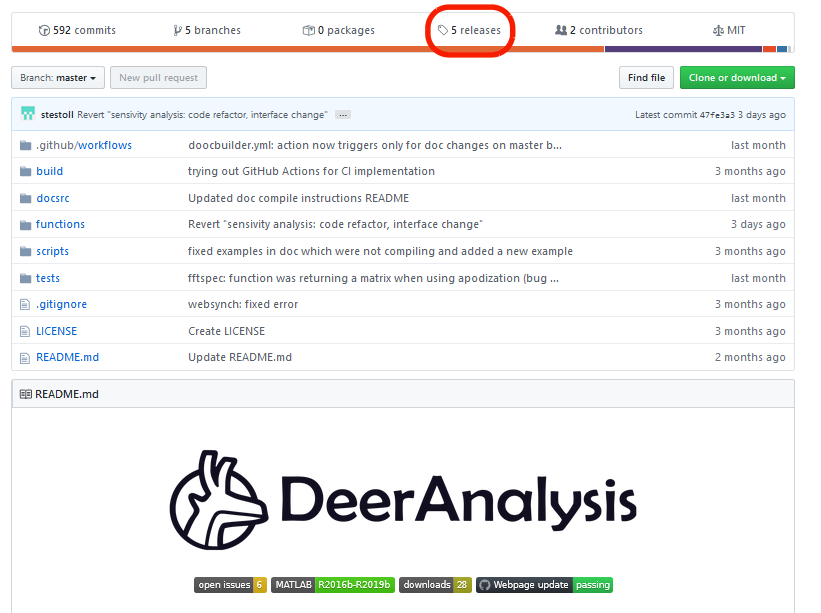
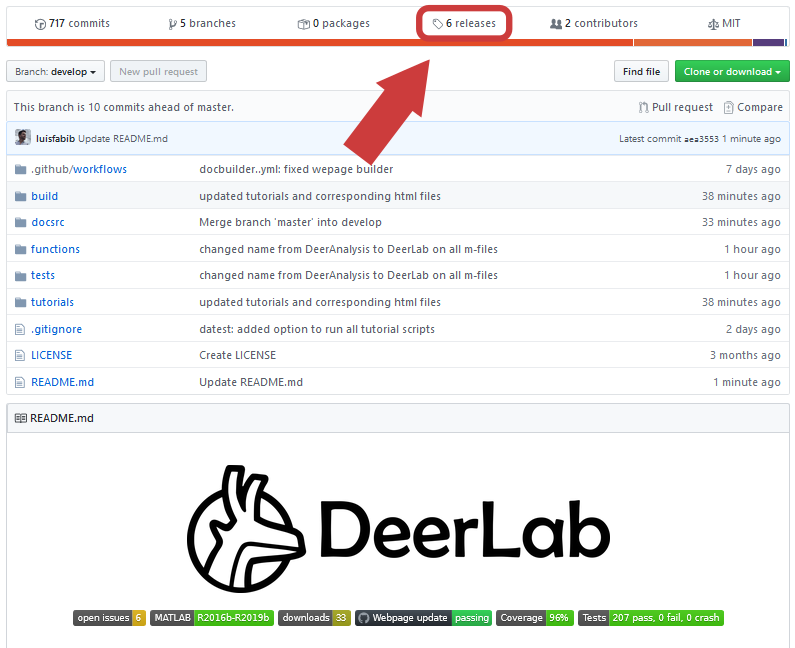
DeerAnaysis -> DeerLab update in the documentation/webpage

Changed region(s): [[0.0, 0.0, 0.9962, 0.6819], [0.0906, 0.7129, 0.9358, 0.9918]]

diff --git a/docsrc/source/_static/downloadbutton.html b/docsrc/source/_static/downloadbutton.html
@@ -33,6 +33,6 @@
 </style>
 
 <p align="center">
-<a align="center", href="https://github.com/luisfabib/DeerAnalysis2/releases/download/0.8.beta/DeerAnalysis_0.8.beta.zip" class="myButton">Download latest release (0.8.beta)</a>
+<a align="center", href="https://github.com/luisfabib/deerlab/releases/download/0.8.beta/DeerAnalysis_0.8.beta.zip" class="myButton">Download latest release (0.8.beta)</a>
 </p>
 </div>

diff --git a/docsrc/source/_static/theme_override.css b/docsrc/source/_static/theme_override.css
@@ -2825,7 +2825,7 @@ html {
     height: auto;
     width: auto;
     border-radius: 0;
-    max-width: 100%;
+    max-width: 80%;
     background: transparent}
 .wy-side-nav-search>a.icon img.logo,.wy-side-nav-search .wy-dropdown>a.icon img.logo {
     margin-top: .85em}

diff --git a/docsrc/source/conf.py b/docsrc/source/conf.py
@@ -12,7 +12,7 @@ from sphinx.locale import _
 from sphinx_rtd_theme import __version__
 
 # Project details
-project = 'DeerAnalysis'
+project = 'DeerLab'
 copyright = '2019, Luis Fabregas Ibanez'
 author = 'Fabregas Ibanez'
 language = 'en'
@@ -50,7 +50,7 @@ html_theme = 'sphinx_rtd_theme'
 html_context = {
     "display_github": False, # Integrate GitHub
     "github_user": "luisfabib", # Username
-    "github_repo": "DeerAnalysis2", # Repo name
+    "github_repo": "deerlab", # Repo name
     "github_version": "master", # Version
     "conf_py_path": "/source/", # Path in the checkout to the docs root
 }

diff --git a/docsrc/source/index.rst b/docsrc/source/index.rst
@@ -1,17 +1,18 @@
 Welcome to...
 =========================================
 
+
 .. image:: logo_dark.png
-    :width: 800px
+    :width: 650px
     :align: center
 
 .. raw:: html
 
-	<p align="center">
-	 <img src="https://img.shields.io/github/issues-raw/luisfabib/DeerAnalysis2?style=flat"></img>
+	<p align="center" style="top-padding: 100px">
+	 <img src="https://img.shields.io/github/issues-raw/luisfabib/deerlab?style=flat"></img>
 	 <img src="https://img.shields.io/badge/MATLAB-R2016b--R2019b-brightgreen?style=flat"></img>
-	 <img src="https://img.shields.io/github/downloads/luisfabib/DeerAnalysis2/total?style=flat"></img>
-	 <img src="https://github.com/luisfabib/DeerAnalysis2/workflows/Webpage%20update/badge.svg?style=flat-square"></img>
+	 <img src="https://img.shields.io/github/downloads/luisfabib/deerlab/total?style=flat"></img>
+	 <img src="https://github.com/luisfabib/deerlab/workflows/Webpage%20update/badge.svg?style=flat-square"></img>
 	 <img src="https://img.shields.io/endpoint?url=https%3A%2F%2Fdeershields.s3.eu-central-1.amazonaws.com%2Fcoverage_badge.json"></img>
 	 <img src="https://img.shields.io/endpoint?url=https%3A%2F%2Fdeershields.s3.eu-central-1.amazonaws.com%2Ftestsuite_badge.json"></img>
 	</p>
@@ -25,7 +26,7 @@
        
 -------
 
-.. important:: DeerAnalysis is currently on its pre-release phase. Minor changes and some major changes can be expected in the short-term future until the first stable version is released. 
+.. important:: DeerLab is currently on its pre-release phase. Minor changes and some major changes can be expected in the short-term future until the first stable version is released. 
 
 This software package is a MATLAB toolbox for the analysis of data from DEER (double electron-electron resonance) spectroscopy and similar dipolar spectroscopy techniques (DQC, RIDME, SIFTER).
 
@@ -34,7 +35,7 @@ This software package is a MATLAB toolbox for the analysis of data from DEER (do
 
 It consists of a collection of functions (the API) that provides a series of functions that perform single processing or fitting tasks. They can be combined in scripts to generate custom analysis workflows.
 
-To model distance distributions, DeerAnalysis2 supports two types of model classes and associated workflows: parameter-free models (as used in Tikhonov regularization) as well as a series of parameterized models (mutli-Gaussians etc). It also provides a selection of background models. There are API functions for generating synthetic datasets as well as for fitting and analyzing experimental data sets.
+To model distance distributions, DeerLab supports two types of model classes and associated workflows: parameter-free models (as used in Tikhonov regularization) as well as a series of parameterized models (mutli-Gaussians etc). It also provides a selection of background models. There are API functions for generating synthetic datasets as well as for fitting and analyzing experimental data sets.
 
 
 .. toctree::

diff --git a/docsrc/source/download.rst b/docsrc/source/download.rst
@@ -2,17 +2,17 @@ Downloads
 ======================
 
 
-DeerAnalysis is distributed in two different formats:
+DeerLab is distributed in two different formats:
 
 	- Releases
-		Releases are the official packages of DeerAnalysis containing the essentials for the full-functionality of the program. They contain:
+		Releases are the official packages of DeerLab containing the essentials for the full-functionality of the program. They contain:
 
 			- All DeerAnaysis functions
 			- A compiled offline version of this webpage and documentation
 			- All tutorial scripts
 
 	- Source code
-		The source code contains all code used in the development of DeerAnalysis, including: 
+		The source code contains all code used in the development of DeerLab, including: 
 
 			- All DeerAnaysis functions
 			- All source files for compiling the webpage and documentation
@@ -28,7 +28,7 @@ DeerAnalysis is distributed in two different formats:
 Downloading Releases
 -----------------------
 
-All releases (incuding previous versions) are available in the official DeerAnalysis `GitHub repository <https://github.com/luisfabib/DeerAnalysis2>`_. 
+All releases (incuding previous versions) are available in the official DeerLab `GitHub repository <https://github.com/luisfabib/deerlab>`_. 
 
 1) From the main page, select the ``releases`` tab
 
@@ -46,7 +46,7 @@ All releases (incuding previous versions) are available in the official DeerAnal
 Downloading the source code
 -----------------------------
 
-The source code is easily available in the official DeerAnalysis `GitHub repository <https://github.com/luisfabib/DeerAnalysis2>`_ either by downloading or cloning the repo. 
+The source code is easily available in the official DeerLab `GitHub repository <https://github.com/luisfabib/deerlab>`_ either by downloading or cloning the repo. 
 
 1) From the main page, select the ``Clone or download`` tab
 

diff --git a/docsrc/source/installation.rst b/docsrc/source/installation.rst
@@ -4,7 +4,7 @@ Installation
 
 Requirements
 ---------------
-The application programming interface (API) of DeerAnalysis requires the following products:
+The application programming interface (API) of DeerLab requires the following products:
 
     *  `MATLAB <https://ch.mathworks.com/products/matlab.html>`_
 
@@ -19,16 +19,16 @@ To access additional optional functionality, the following products may be requi
 
 Setup
 ---------------
-In order for MATLAB to access the DeerAnalysis API functions, the path to DeerAnalysis installation folder must be set.
+In order for MATLAB to access the DeerLab API functions, the path to DeerLab installation folder must be set.
 
 
 
-Method A) Add DeerAnalysis path via MATLAB's IDE
+Method A) Add DeerLab path via MATLAB's IDE
 	1) On the ``Home`` tab, in the ``Environment`` section, click ``Set Path``. 
 	
 		.. image:: ./images/installation1.png
 		
-	2) Click ``Add with Subfolders...`` and select the ``DeerAnalysis\functions`` directory. 
+	2) Click ``Add with Subfolders...`` and select the ``DeerLab\functions`` directory. 
 	
 		.. image:: ./images/installation2.png
 		
@@ -37,14 +37,14 @@ Method A) Add DeerAnalysis path via MATLAB's IDE
 
 -----------------------
 
-Method B) Add DeerAnalysis path at startup
+Method B) Add DeerLab path at startup
 	1) Open (or create) the ``startup.m`` file in the default ``\MATLAB`` directory.
 	2) Add the following lines of code:
 
 
 	 .. code-block:: matlab
 
-		 addpath('mypath/DeerAnalysis/functions')
-		 addpath('mypath/DeerAnalysis/functions/models')
+		 addpath('mypath/DeerLab/functions')
+		 addpath('mypath/DeerLab/functions/models')
 		 
 	3) Save ``startup.m`` and restart MATLAB.

diff --git a/docsrc/source/examples.rst b/docsrc/source/examples.rst
@@ -1,7 +1,7 @@
 Tutorials
 ======================
 
-This is a collection of tutorials for the use of the DeerAnalysis API. The tutorials cover topics from the basics of dipolar analysis to more advanced topics. You can download the individual tutorials in various formats by using the buttons located on top of each tutorial. 
+This is a collection of tutorials for the use of the DeerLab API. The tutorials cover topics from the basics of dipolar analysis to more advanced topics. You can download the individual tutorials in various formats by using the buttons located on top of each tutorial. 
 
 .. toctree::
     :maxdepth: 1
@@ -115,7 +115,7 @@ This is a collection of tutorials for the use of the DeerAnalysis API. The tutor
 
 
 
-Do you want to share your ideas using DeerAnalysis? 
-      If you have an nice example or tutorial on a custom implementation of the DeerAnalysis API and want to share it, you can download the `tutorial template <https://deertutorials.s3.eu-central-1.amazonaws.com/template.mlx>`_ to write your own tutorial. 
+Do you want to share your ideas using DeerLab? 
+      If you have an nice example or tutorial on a custom implementation of the DeerLab API and want to share it, you can download the `tutorial template <https://deertutorials.s3.eu-central-1.amazonaws.com/template.mlx>`_ to write your own tutorial. 
       Submit your tutorial to luis.fabregas@phys.chem.ethz.ch to be reviewed (basically a test of compilation and version compatibility), and it will be published in this page with your name as the author. 
 

diff --git a/docsrc/source/api/paramodel.rst b/docsrc/source/api/paramodel.rst
@@ -5,7 +5,7 @@
 :mod:`paramodel`
 ***********************
 
-Converts a function handle to a valid DeerAnalysis parametric model
+Converts a function handle to a valid DeerLab parametric model
 
 Syntax
 =========================================
@@ -33,7 +33,7 @@ Description
 
     mod = paramodel(fcn,n)
 
-Converts the input function handle ``fcn`` to a valid DeerAnalysis parametric model compatible with the fit functions, e.g. :ref:`fitparamodel`. The number of parameters in the resulting parametric model must be specified by ``n``. The initial guess values of all parameters are set to zero. The resulting parametric model ``mod`` is returned in as a function handle.
+Converts the input function handle ``fcn`` to a valid DeerLab parametric model compatible with the fit functions, e.g. :ref:`fitparamodel`. The number of parameters in the resulting parametric model must be specified by ``n``. The initial guess values of all parameters are set to zero. The resulting parametric model ``mod`` is returned in as a function handle.
 
 .. code-block:: matlab
 

diff --git a/docsrc/README.md b/docsrc/README.md
@@ -1,6 +1,6 @@
 ## Compiling the documentation
 
-The DeerAnalysis documentation/website is written in restructred-text format and built with Sphinx. In order to compile the source files of the documentation, several packages/programs are required. This is a summary of the steps to be taken before being able to compile the documentation.
+The DeerLab documentation/website is written in restructred-text format and built with Sphinx. In order to compile the source files of the documentation, several packages/programs are required. This is a summary of the steps to be taken before being able to compile the documentation.
 
 ### Requirements: 
   * Pyhton3
@@ -52,7 +52,7 @@ In order to compile the documentation the following steps must be followed:
 		
 6) Download and install dvissvgm from https://dvisvgm.de/Downloads/
 		
-7) From /DeerAnalysis/docsrc/ run the batch script
+7) From /DeerLab/docsrc/ run the batch script
 
 	    #To compile using the cached data
             make    

diff --git a/docsrc/source/theory/regularization_basics.rst b/docsrc/source/theory/regularization_basics.rst
@@ -29,7 +29,7 @@ If several signals :math:`S_1,S_2,...S_N` corresponding to the same distance dis
 
 .. math:: \arg\min_{\mathbf{P}\geq 0}\left\{ \sum_i^N w_i\frac{1}{2}\Vert \mathbf{K}_i\mathbf{P} - \mathbf{S}_i \Vert_2^2 + \alpha^2 \Gamma[\mathbf{L}\mathbf{P}]\right\},
 
-where :math:`w_i` are to so-called global-fit weights. They distribute the influence each signal has on the quality of the least-squares fitting. In DeerAnalysis2 these weights are computed according to the contribution of each signal to the ill-posedness of the inverse problem.
+where :math:`w_i` are to so-called global-fit weights. They distribute the influence each signal has on the quality of the least-squares fitting. In DeerLab these weights are computed according to the contribution of each signal to the ill-posedness of the inverse problem.
 
 .. math:: w_i = \frac{\sum_j^N M_j\sigma_j}{N_i\sigma_i}, \sum_i^N w_i = 1
 

diff --git a/docsrc/source/api/mixmodels.rst b/docsrc/source/api/mixmodels.rst
@@ -38,7 +38,7 @@ Description
 
             newmodel = mixmodels({@model1,@model2, .., @modelN})
 
-Combines the parametric model function handles ``model1``, ``model2``, ...,  ``modelN`` into a new parametric model function handle ``newmodel``. The models must be passed as a cell array of function handles and the parametric models must be of the type as the models distributed in DeerAnalysis. The returned function handle can be used for parametric model fitting.
+Combines the parametric model function handles ``model1``, ``model2``, ...,  ``modelN`` into a new parametric model function handle ``newmodel``. The models must be passed as a cell array of function handles and the parametric models must be of the type as the models distributed in DeerLab. The returned function handle can be used for parametric model fitting.
 
 Information about the new model and its parameters can be accessed by
 

diff --git a/docsrc/source/api/dipolarkernel.rst b/docsrc/source/api/dipolarkernel.rst
@@ -44,7 +44,7 @@ Computes ``K`` for the transformation to the dipolar evolution function from the
 
     .. math:: \mathbf{K}\mathbf{P}  = \mathbf{D}
 
-Since the dipolar kernel is normalized by `\Delta r`, in order to obtain the correct time-domain signal via ``S=K*P``, the distance distribution must be properly normalized by `\Delta r` as well. By default, all distribution ``P`` returned by DeerAnalysis are already normalized.
+Since the dipolar kernel is normalized by `\Delta r`, in order to obtain the correct time-domain signal via ``S=K*P``, the distance distribution must be properly normalized by `\Delta r` as well. By default, all distribution ``P`` returned by DeerLab are already normalized.
 
 
 -----------------------------
